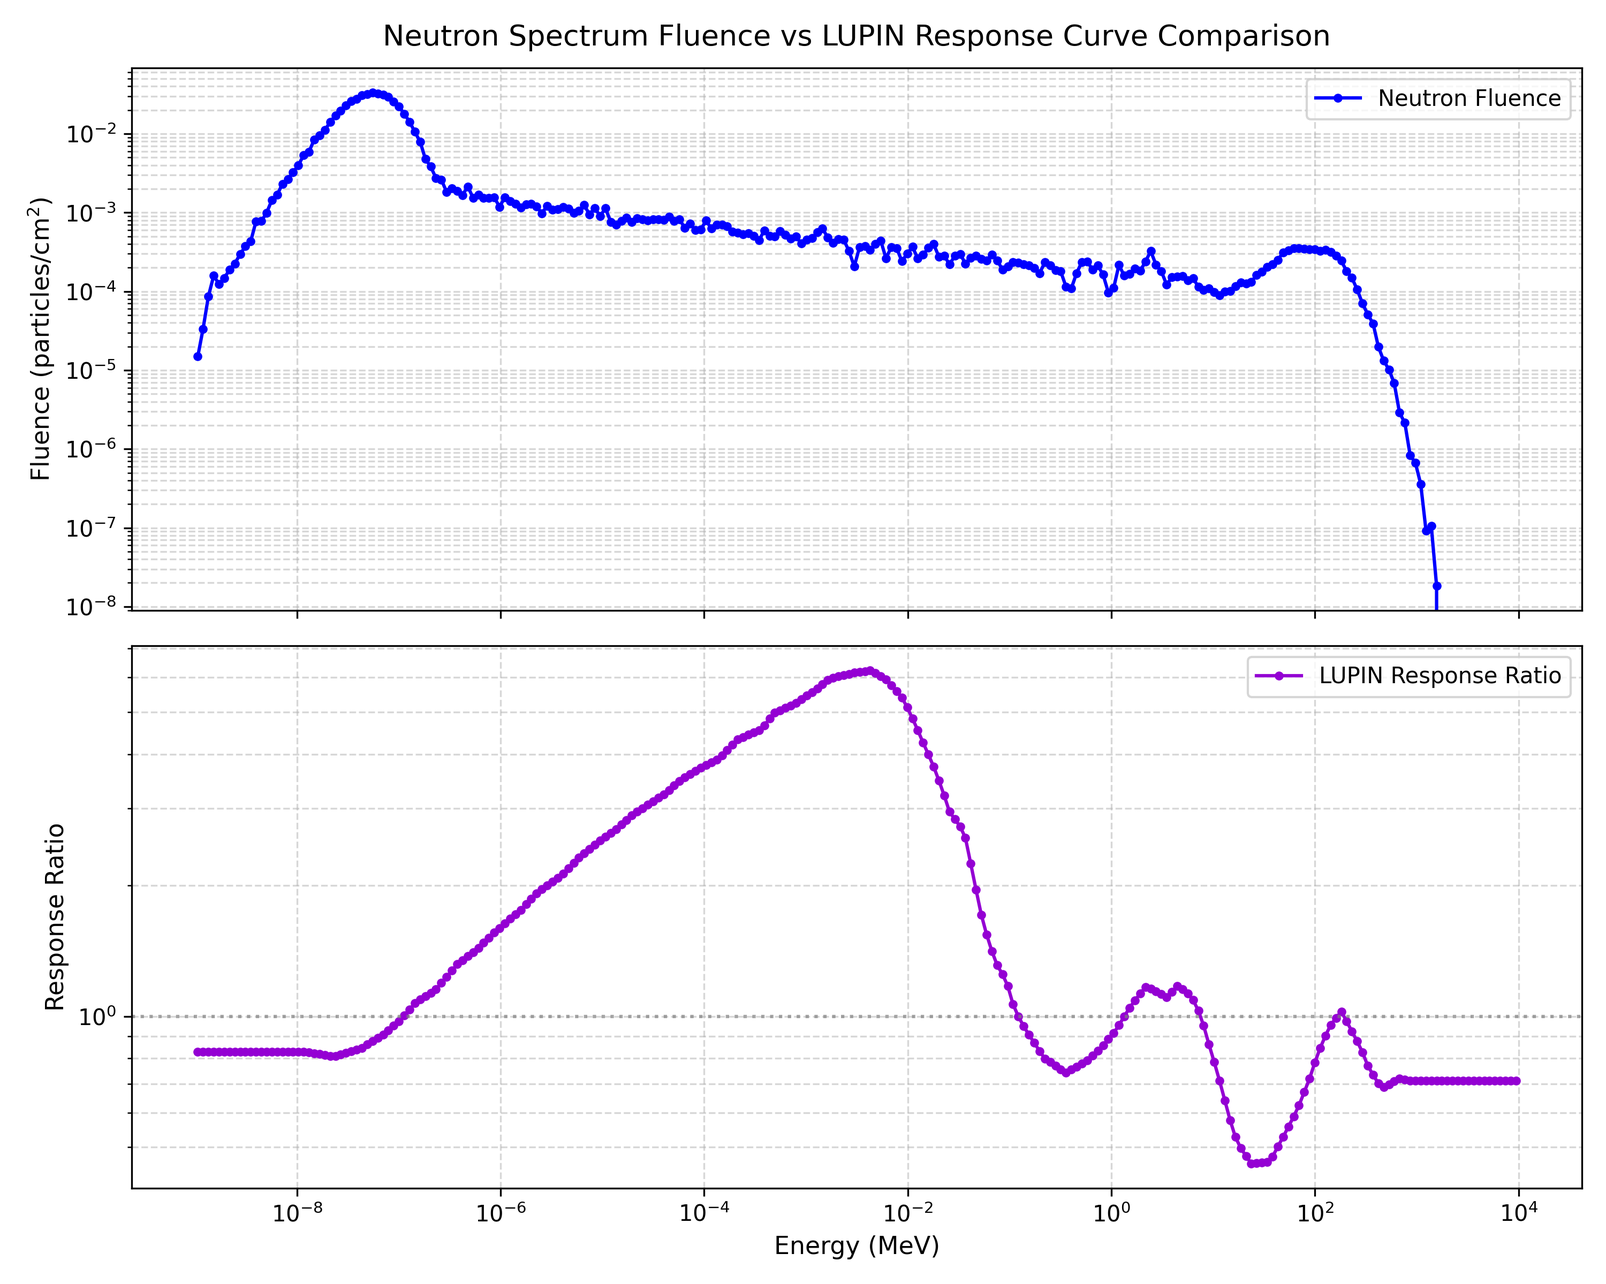
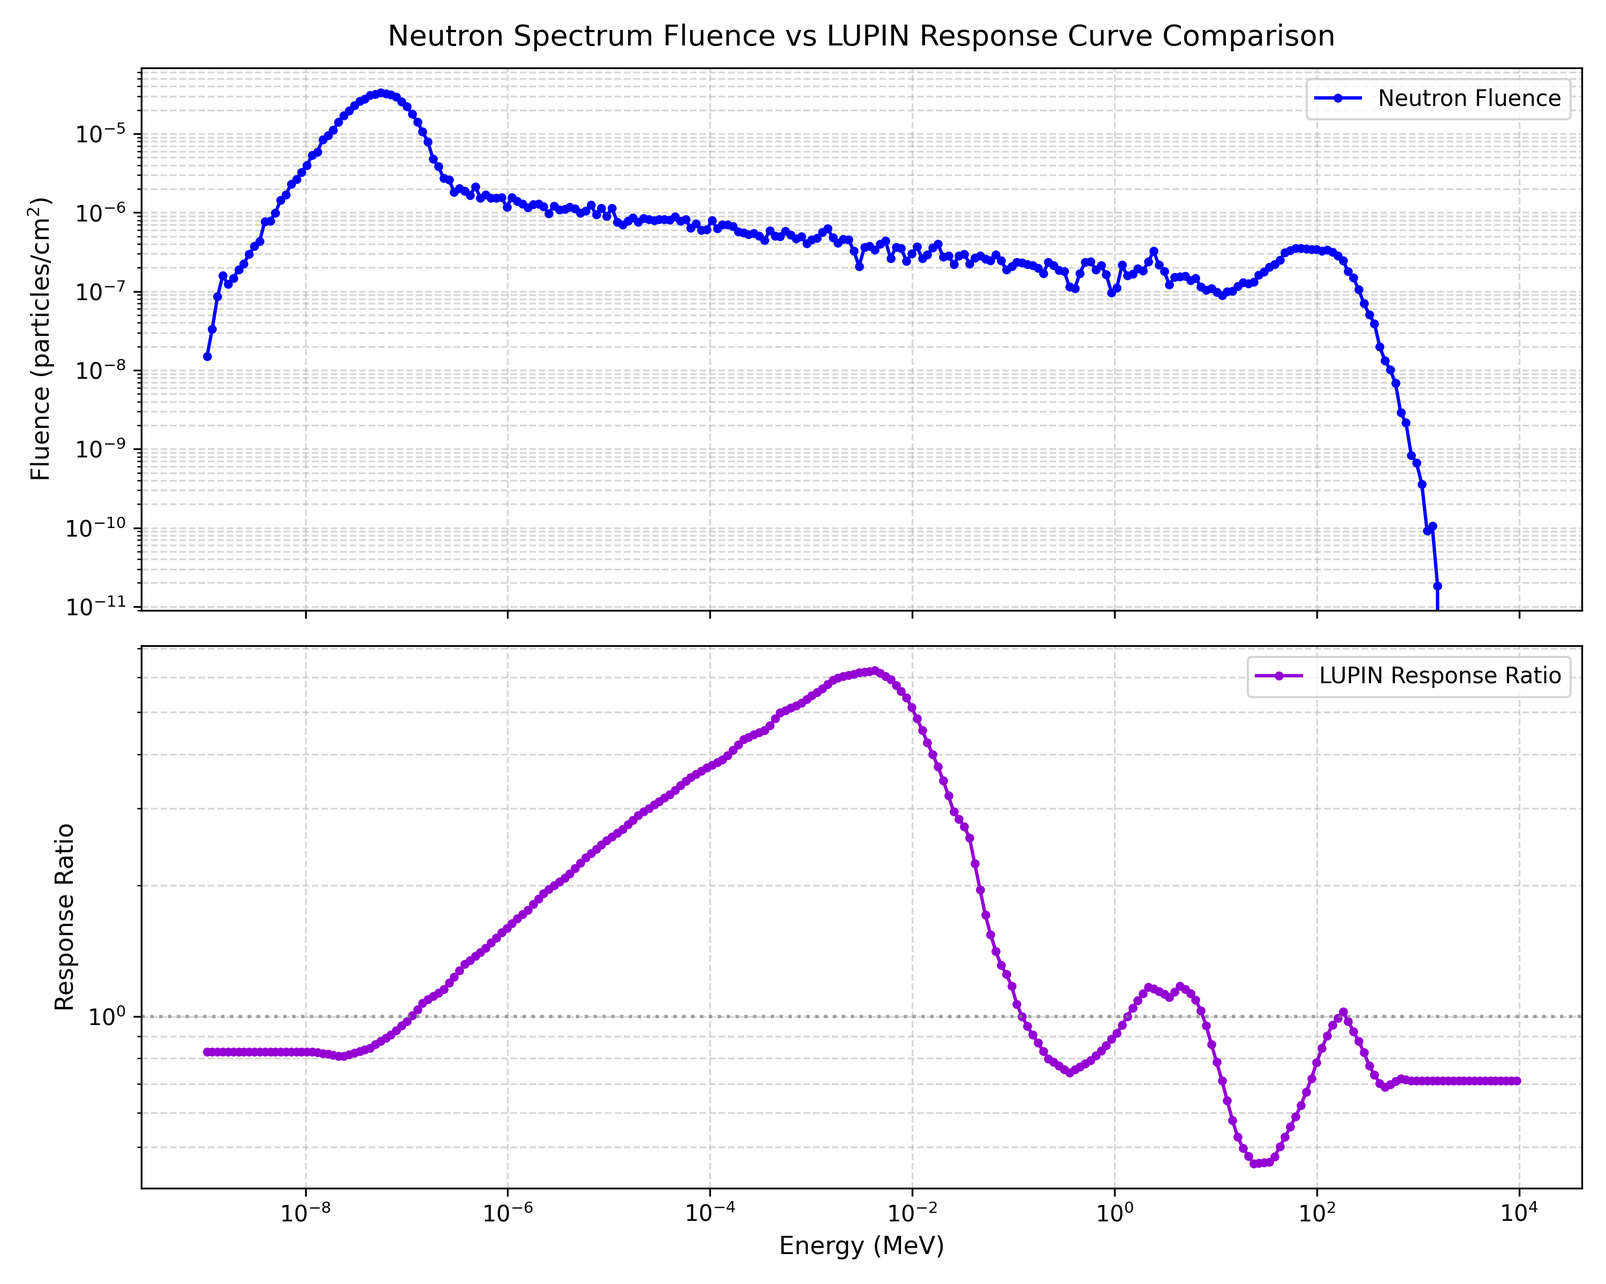
Fix dN/dE bug with energy convertion
Data for the differential fluence from FLUKA are expressed in GeV but I
multiplied them for the bin width in MeV. This commit fixes the bug for
all the correction evaluation codes.

diff --git a/SwissFEL25/WENDI2_responsefolding/neutronresponse/WENDI2-NeutronFolding.py b/SwissFEL25/WENDI2_responsefolding/neutronresponse/WENDI2-NeutronFolding.py
@@ -12,7 +12,7 @@ neutron_flux_bin_min = [x*1000 for x in neutron_flux_bin_min] # convert GeV to M
 neutron_flux_bin_max = [1.1271975E-12, 1.2705742E-12, 1.4321880E-12, 1.6143588E-12, 1.8197013E-12, 2.0511626E-12, 2.3120653E-12, 2.6061542E-12, 2.9376503E-12, 3.3113124E-12, 3.7325030E-12, 4.2072678E-12, 4.7424222E-12, 5.3456462E-12, 6.0255989E-12, 6.7920400E-12, 7.6559705E-12, 8.6297905E-12, 9.7274784E-12, 1.0964789E-11, 1.2359482E-11, 1.3931579E-11, 1.5703640E-11, 1.7701103E-11, 1.9952638E-11, 2.2490567E-11, 2.5351308E-11, 2.8575930E-11, 3.2210720E-11, 3.6307842E-11, 4.0926110E-11, 4.6131807E-11, 5.1999658E-11, 5.8613885E-11, 6.6069421E-11, 7.4473282E-11, 8.3946100E-11, 9.4623837E-11, 1.0665975E-10, 1.2022661E-10, 1.3551912E-10, 1.5275682E-10, 1.7218710E-10, 1.9408886E-10, 2.1877648E-10, 2.4660432E-10, 2.7797176E-10, 3.1332906E-10, 3.5318373E-10, 3.9810782E-10, 4.4874612E-10, 5.0582555E-10, 5.7016530E-10, 6.4268890E-10, 7.2443723E-10, 8.1658386E-10, 9.2045122E-10, 1.0375304E-09, 1.1695016E-09, 1.3182593E-09, 1.4859387E-09, 1.6749463E-09, 1.8879953E-09, 2.1281434E-09, 2.3988380E-09, 2.7039644E-09, 3.0479019E-09, 3.4355871E-09, 3.8725854E-09, 4.3651691E-09, 4.9204072E-09, 5.5462706E-09, 6.2517418E-09, 7.0469484E-09, 7.9433020E-09, 8.9536698E-09, 1.0092554E-08, 1.1376303E-08, 1.2823340E-08, 1.4454436E-08, 1.6293004E-08, 1.8365434E-08, 2.0701469E-08, 2.3334646E-08, 2.6302754E-08, 2.9648398E-08, 3.3419603E-08, 3.7670489E-08, 4.2462077E-08, 4.7863153E-08, 5.3951222E-08, 6.0813683E-08, 6.8549042E-08, 7.7268297E-08, 8.7096630E-08, 9.8175100E-08, 1.1066273E-07, 1.2473876E-07, 1.4060521E-07, 1.5848983E-07, 1.7864934E-07, 2.0137311E-07, 2.2698727E-07, 2.5585948E-07, 2.8840412E-07, 3.2508845E-07, 3.6643888E-07, 4.1304892E-07, 4.6558779E-07, 5.2480937E-07, 5.9156383E-07, 6.6680923E-07, 7.5162569E-07, 8.4723058E-07, 9.5499615E-07, 1.0764694E-06, 1.2133936E-06, 1.3677343E-06, 1.5417065E-06, 1.7378076E-06, 1.9588524E-06, 2.2080135E-06, 2.4888673E-06, 2.8054451E-06, 3.1622910E-06, 3.5645262E-06, 4.0179252E-06, 4.5289949E-06, 5.1050720E-06, 5.7544244E-06, 6.4863725E-06, 7.3114229E-06, 8.2414172E-06, 9.2897062E-06, 1.0471332E-05, 1.1803259E-05, 1.3304604E-05, 1.4996917E-05, 1.6904489E-05, 1.9054694E-05, 2.1478407E-05, 2.4210405E-05, 2.7289909E-05, 3.0761115E-05, 3.4673852E-05, 3.9084276E-05, 4.4055701E-05, 4.9659477E-05, 5.5976037E-05, 6.3096049E-05, 7.1121707E-05, 8.0168211E-05, 9.0365400E-05, 1.0185967E-04, 1.1481595E-04, 1.2942024E-04, 1.4588219E-04, 1.6443802E-04, 1.8535415E-04, 2.0893072E-04, 2.3550619E-04, 2.6546197E-04, 2.9922806E-04, 3.3728912E-04, 3.8019146E-04, 4.2855091E-04, 4.8306148E-04, 5.4450566E-04, 6.1376544E-04, 6.9183490E-04, 7.7983458E-04, 8.7902747E-04, 9.9083758E-04, 1.1168697E-03, 1.2589328E-03, 1.4190659E-03, 1.5995674E-03, 1.8030284E-03, 2.0323689E-03, 2.2908812E-03, 2.5822758E-03, 2.9107349E-03, 3.2809728E-03, 3.6983043E-03, 4.1687191E-03, 4.6989699E-03, 5.2966666E-03, 5.9703896E-03, 6.7298091E-03, 7.5858231E-03, 8.5507212E-03, 9.6383514E-03, 1.0864326E-02, 1.2246241E-02, 1.3803933E-02, 1.5559757E-02, 1.7538920E-02, 1.9769827E-02, 2.2284498E-02, 2.5119031E-02, 2.8314108E-02, 3.1915594E-02, 3.5975177E-02, 4.0551126E-02, 4.5709126E-02, 5.1523220E-02, 5.8076844E-02, 6.5464064E-02, 7.3790938E-02, 8.3176956E-02, 9.3756847E-02, 0.1056825, 0.1191250, 0.1342774, 0.1513572, 0.1706095, 0.1923105, 0.2167720, 0.2443448, 0.2754248, 0.3104582, 0.3499477, 0.3944602, 0.4446345, 0.5011910, 0.5649412, 0.6368003, 0.7177996, 0.8091020, 0.9120178, 1.028024, 1.158786, 1.306181, 1.472324, 1.659600, 1.870697, 2.108645, 2.376859, 2.679189, 3.019976, 3.404109, 3.837103, 4.325173, 4.875324, 5.495454, 6.194462, 6.982381, 7.870522, 8.871633, 10.00008]
 neutron_flux_bin_max = [x*1000 for x in neutron_flux_bin_max] # convert GeV to MeV
 
-# This is the differential fluence of the neutrons (dN/dE) (Neutrons/MeVcm2) simulated with FLUKA in 2025
+# This is the differential fluence of the neutrons (dN/dE) (Neutrons/GeVcm2) simulated with FLUKA in 2025
 neutron_fluence_differential = [257441.1, 283464.5, 119988.8, 576473.2, 196380.1, 339733.3, 677608.9, 636745.8, 431372.0, 725778.5, 796823.7, 971698.1, 1144935., 1510168., 1587017., 2000684., 1646242., 1758530., 2217067., 2427907., 2509081., 2663888., 3187773., 3522366., 3915851., 3884326., 4111081., 4379386., 4422306., 4475590., 4473106., 4280388., 4000730., 3650752., 3175299., 2643124., 2136643., 1740802., 1286592., 938048.9, 567868.2, 384582.4, 240247.3, 139243.4, 98878.06, 51426.49, 31561.51, 20934.41, 17384.44, 12505.40, 11315.13, 11407.50, 11303.16, 9860.485, 7513.986, 6732.945, 5987.369, 4923.546, 5571.510, 3368.001, 2628.181, 3105.958, 3326.066, 2514.458, 2015.692, 1863.885, 1523.825, 1839.298, 1267.291, 836.0508, 1019.351, 820.3976, 732.7415, 646.1347, 593.5504, 438.0917, 518.4284, 385.8990, 269.9217, 284.1479, 289.4415, 231.5765, 245.1959, 162.3932, 143.4353, 135.3934, 121.6911, 115.4552, 70.71508, 75.30845, 67.37531, 74.66490, 69.40839, 38.70984, 37.59397, 40.05275, 36.71345, 28.54985, 19.70844, 21.52743, 19.95745, 17.28657, 17.94884, 15.02095, 15.47954, 8.132508, 8.765331, 8.018218, 8.206712, 5.382307, 4.791873, 5.204505, 4.814923, 3.595470, 4.028876, 3.693014, 3.731691, 2.489256, 2.668991, 1.932511, 1.957079, 1.494171, 1.348751, 1.338707, 0.9125900, 1.063494, 0.9211050, 0.7348630, 0.7605793, 0.5072417, 0.5435232, 0.5594368, 0.4309097, 0.3656132, 0.3011673, 0.2737519, 0.2626331, 0.2453497, 0.1974537, 0.2156077, 0.1644257, 0.1989160, 0.2019996, 9.2423871E-02, 0.1314488, 9.4106168E-02, 0.1086253, 8.7195858E-02, 8.7628901E-02, 9.8621875E-02, 7.8335986E-02, 5.5818714E-02, 4.9635205E-02, 4.6083380E-02, 5.6160398E-02, 5.0352409E-02, 4.7821388E-02, 4.5129653E-02, 3.9930511E-02, 3.0939113E-02, 3.6909305E-02, 3.3100907E-02, 3.3176709E-02, 3.4289464E-02, 3.0670675E-02, 1.8646779E-02, 1.7606765E-02, 2.3456389E-02, 2.3514044E-02, 1.8386025E-02, 1.9189307E-02, 1.6932106E-02, 1.0463245E-02, 1.0179237E-02, 8.4376968E-03, 6.5458086E-03, 5.7246075E-03, 4.5863995E-03, 3.6422554E-03, 3.5197935E-03, 3.3297974E-03, 2.3942853E-03, 1.5635507E-03, 9.7079924E-04, 8.9010940E-04, 6.6569954E-04, 5.3365791E-04, 4.4401825E-04, 4.5168030E-04, 2.6840030E-04, 2.0608885E-04, 1.5773707E-04, 1.2821931E-04, 1.1463290E-04, 1.0167091E-04, 8.2477207E-05, 9.6304022E-05, 7.2679344E-05, 7.9365789E-05, 7.1202208E-05, 7.3364419E-05, 6.6645072E-05, 6.7403933E-05, 6.6712448E-05, 6.9035341E-05, 7.0311653E-05, 6.7523652E-05, 6.5300708E-05, 5.9146256E-05, 4.7710659E-05, 4.1036394E-05, 3.4785320E-05, 2.7192322E-05, 2.1091395E-05, 1.4831823E-05, 9.3695271E-06, 6.1699766E-06, 3.2672858E-06, 1.9194533E-06, 7.0922079E-07, 2.8315185E-07, 5.1303598E-08, 2.9197555E-08, 3.8648871E-09, 0.000000, 0.000000, 0.000000, 0.000000, 0.000000, 0.000000, 0.000000, 0.000000, 0.000000, 0.000000, 0.000000, 0.000000, 0.000000, 0.000000, 0.000000, 0.000000, 0.000000, 0.000000, 0.000000, 0.000000, 0.000000, 0.000000, 0.000000, 0.000000, 0.000000, 0.000000]
 
 print("Entries for neutron flux lower energggy bin side :", len(neutron_flux_bin_min))
@@ -26,7 +26,7 @@ import numpy as np
 
 E_min = np.array(neutron_flux_bin_min) # convert to numpy array
 E_max = np.array(neutron_flux_bin_max)
-dN_dE = np.array(neutron_fluence_differential)
+dN_dE = np.array(neutron_fluence_differential) / 1000.0 # convert GeV to MeV
 
 dE = E_max - E_min # the width of each energy bin
 

diff --git a/SwissFEL25/LUPIN_responsefolding/LUPIN-Folding.py b/SwissFEL25/LUPIN_responsefolding/LUPIN-Folding.py
@@ -10,7 +10,7 @@ neutron_flux_bin_min = [x*1000 for x in neutron_flux_bin_min] # convert GeV to M
 neutron_flux_bin_max = [1.1271975E-12,1.2705742E-12,1.4321880E-12,1.6143588E-12,1.8197013E-12,2.0511626E-12,2.3120653E-12,2.6061542E-12,2.9376503E-12,3.3113124E-12,3.7325030E-12,4.2072678E-12,4.7424222E-12,5.3456462E-12,6.0255989E-12,6.7920400E-12,7.6559705E-12,8.6297905E-12,9.7274784E-12,1.0964789E-11,1.2359482E-11,1.3931579E-11,1.5703640E-11,1.7701103E-11,1.9952638E-11,2.2490567E-11,2.5351308E-11,2.8575930E-11,3.2210720E-11,3.6307842E-11,4.0926110E-11,4.6131807E-11,5.1999658E-11,5.8613885E-11,6.6069421E-11,7.4473282E-11,8.3946100E-11,9.4623837E-11,1.0665975E-10,1.2022661E-10,1.3551912E-10,1.5275682E-10,1.7218710E-10,1.9408886E-10,2.1877648E-10,2.4660432E-10,2.7797176E-10,3.1332906E-10,3.5318373E-10,3.9810782E-10,4.4874612E-10,5.0582555E-10,5.7016530E-10,6.4268890E-10,7.2443723E-10,8.1658386E-10,9.2045122E-10,1.0375304E-09,1.1695016E-09,1.3182593E-09,1.4859387E-09,1.6749463E-09,1.8879953E-09,2.1281434E-09,2.3988380E-09,2.7039644E-09,3.0479019E-09,3.4355871E-09,3.8725854E-09,4.3651691E-09,4.9204072E-09,5.5462706E-09,6.2517418E-09,7.0469484E-09,7.9433020E-09,8.9536698E-09,1.0092554E-08,1.1376303E-08,1.2823340E-08,1.4454436E-08,1.6293004E-08,1.8365434E-08,2.0701469E-08,2.3334646E-08,2.6302754E-08,2.9648398E-08,3.3419603E-08,3.7670489E-08,4.2462077E-08,4.7863153E-08,5.3951222E-08,6.0813683E-08,6.8549042E-08,7.7268297E-08,8.7096630E-08,9.8175100E-08,1.1066273E-07,1.2473876E-07,1.4060521E-07,1.5848983E-07,1.7864934E-07,2.0137311E-07,2.2698727E-07,2.5585948E-07,2.8840412E-07,3.2508845E-07,3.6643888E-07,4.1304892E-07,4.6558779E-07,5.2480937E-07,5.9156383E-07,6.6680923E-07,7.5162569E-07,8.4723058E-07,9.5499615E-07,1.0764694E-06,1.2133936E-06,1.3677343E-06,1.5417065E-06,1.7378076E-06,1.9588524E-06,2.2080135E-06,2.4888673E-06,2.8054451E-06,3.1622910E-06,3.5645262E-06,4.0179252E-06,4.5289949E-06,5.1050720E-06,5.7544244E-06,6.4863725E-06,7.3114229E-06,8.2414172E-06,9.2897062E-06,1.0471332E-05,1.1803259E-05,1.3304604E-05,1.4996917E-05,1.6904489E-05,1.9054694E-05,2.1478407E-05,2.4210405E-05,2.7289909E-05,3.0761115E-05,3.4673852E-05,3.9084276E-05,4.4055701E-05,4.9659477E-05,5.5976037E-05,6.3096049E-05,7.1121707E-05,8.0168211E-05,9.0365400E-05,1.0185967E-04,1.1481595E-04,1.2942024E-04,1.4588219E-04,1.6443802E-04,1.8535415E-04,2.0893072E-04,2.3550619E-04,2.6546197E-04,2.9922806E-04,3.3728912E-04,3.8019146E-04,4.2855091E-04,4.8306148E-04,5.4450566E-04,6.1376544E-04,6.9183490E-04,7.7983458E-04,8.7902747E-04,9.9083758E-04,1.1168697E-03,1.2589328E-03,1.4190659E-03,1.5995674E-03,1.8030284E-03,2.0323689E-03,2.2908812E-03,2.5822758E-03,2.9107349E-03,3.2809728E-03,3.6983043E-03,4.1687191E-03,4.6989699E-03,5.2966666E-03,5.9703896E-03,6.7298091E-03,7.5858231E-03,8.5507212E-03,9.6383514E-03,1.0864326E-02,1.2246241E-02,1.3803933E-02,1.5559757E-02,1.7538920E-02,1.9769827E-02,2.2284498E-02,2.5119031E-02,2.8314108E-02,3.1915594E-02,3.5975177E-02,4.0551126E-02,4.5709126E-02,5.1523220E-02,5.8076844E-02,6.5464064E-02,7.3790938E-02,8.3176956E-02,9.3756847E-02,0.1056825,0.1191250,0.1342774,0.1513572,0.1706095,0.1923105,0.2167720,0.2443448,0.2754248,0.3104582,0.3499477,0.3944602,0.4446345,0.5011910,0.5649412,0.6368003,0.7177996,0.8091020,0.9120178,1.028024,1.158786,1.306181,1.472324,1.659600,1.870697,2.108645,2.376859,2.679189,3.019976,3.404109,3.837103,4.325173,4.875324,5.495454,6.194462,6.982381,7.870522,8.871633,10.00008]
 neutron_flux_bin_max = [x*1000 for x in neutron_flux_bin_max] # convert GeV to MeV
 
-# This is the differential fluence of the neutrons (dN/dE) (Neutrons/MeVcm2) simulated with FLUKA in 2025, at position 5
+# This is the differential fluence of the neutrons (dN/dE) (Neutrons/GeVcm2) simulated with FLUKA in 2025, at position 5
 neutron_fluence_differential = [117246.2,233992.5,534151.0,866435.8,603607.4,636633.0,723700.0,767987.1,895420.3,999605.8,1025595.,1632460.,1454233.,1650087.,2122105.,2203680.,2676643.,2726362.,2972709.,3216134.,3856352.,3762621.,4761256.,4807833.,4940444.,5562848.,5963586.,6105506.,6275949.,6350830.,5997725.,5941313.,5384315.,5025278.,4368488.,3709784.,3131228.,2413154.,1833544.,1325806.,926296.3,615196.2,407450.5,217857.1,155178.8,98021.43,83679.08,51679.01,51006.27,41530.21,32918.08,37520.00,23968.84,23251.12,18903.23,16662.23,14919.78,10121.87,11802.58,9424.813,7682.492,6118.555,5988.596,5378.093,4403.139,3213.270,3549.892,2826.415,2519.545,2394.752,2014.207,1576.666,1495.322,1566.933,1050.101,1132.869,791.5505,886.7409,527.4958,431.6891,427.1064,417.7705,326.3943,322.9293,275.8129,237.2537,217.5544,192.2110,167.9964,163.8302,127.7357,119.6830,82.11761,82.72034,61.01040,54.68556,63.35694,44.63813,44.28531,38.96105,33.37617,25.17617,21.69421,18.36428,16.79788,13.76502,10.72184,12.68534,9.619267,8.443299,8.690833,6.968849,5.545775,5.173352,3.741765,3.705240,3.460905,3.634304,3.593102,2.468671,1.857929,1.834653,1.610913,1.031667,0.5825723,0.9025270,0.8222470,0.6620001,0.6893918,0.6788666,0.3592639,0.4414320,0.3817325,0.2306036,0.2545180,0.2759129,0.1737765,0.1721908,0.1865699,0.1846059,0.1135198,0.1036822,7.1213663E-02,8.1867680E-02,7.6343767E-02,5.1079903E-02,5.3637858E-02,5.0663520E-02,4.1053507E-02,3.4540571E-02,3.6716688E-02,2.7149525E-02,1.8635528E-02,1.7936349E-02,1.8129811E-02,1.5753603E-02,1.3491048E-02,1.1520599E-02,9.4447834E-03,7.1753166E-03,8.8050570E-03,7.0950021E-03,5.4679015E-03,4.7118026E-03,2.6721535E-03,2.2567345E-03,3.1256853E-03,3.8535905E-03,3.4560761E-03,2.4349410E-03,2.4248997E-03,1.6445641E-03,8.6716883E-04,8.7608671E-04,1.5213244E-03,9.8799856E-04,9.2968624E-04,9.5190608E-04,7.9225504E-04,9.2056225E-04,1.1145205E-03,6.6296471E-04,4.8704544E-04,2.9227309E-04,3.2028562E-04,2.9280386E-04,2.6337302E-04,2.0406746E-04,1.9437737E-04,1.3303374E-04,1.0736549E-04,1.0108003E-04,8.0492006E-05,6.4176602E-05,6.3598534E-05,5.7583293E-05,5.8338363E-05,5.8042711E-05,5.0058185E-05,4.6317462E-05,5.0774022E-05,4.9038223E-05,5.0460607E-05,4.8514263E-05,4.8638103E-05,5.3446598E-05,5.0306549E-05,4.7739919E-05,4.2394768E-05,3.7047117E-05,3.2238917E-05,2.8675748E-05,2.4428526E-05,2.2240047E-05,1.8539540E-05,1.4749735E-05,1.1264682E-05,7.3882052E-06,5.3803233E-06,3.3964413E-06,2.0080213E-06,1.2923995E-06,8.8022892E-07,3.9606729E-07,2.3422587E-07,1.5961994E-07,9.4918988E-08,3.5668730E-08,2.3481862E-08,8.1235241E-09,5.7362026E-09,2.7485951E-09,6.2520877E-10,6.3198918E-10,9.8037342E-11,0.000000,0.000000,0.000000,0.000000,0.000000,0.000000,0.000000,0.000000,0.000000,0.000000,0.000000,0.000000,0.000000,0.000000,0.000000]
 
 print("Entries for neutron flux lower energggy bin side :", len(neutron_flux_bin_min))
@@ -24,7 +24,7 @@ import numpy as np
 
 E_min = np.array(neutron_flux_bin_min) # convert to numpy array
 E_max = np.array(neutron_flux_bin_max)
-dN_dE = np.array(neutron_fluence_differential)
+dN_dE = np.array(neutron_fluence_differential) / 1000.0 # convert GeV to MeV
 
 dE = E_max - E_min # the width of each energy bin
 

diff --git a/SwissFEL25/NAUSICAA_responsefolding/NAUSICAA_folding.py b/SwissFEL25/NAUSICAA_responsefolding/NAUSICAA_folding.py
@@ -9,7 +9,7 @@ photon_flux_bin_min = [x*1000 for x in photon_flux_bin_min] # convert GeV to MeV
 photon_flux_bin_max = [1.0964782E-09,1.2022645E-09,1.3182568E-09,1.4454400E-09,1.5848935E-09,1.7378012E-09,1.9054613E-09,2.0892970E-09,2.2908686E-09,2.5118878E-09,2.7542302E-09,3.0199536E-09,3.3113132E-09,3.6307830E-09,3.9810746E-09,4.3651625E-09,4.7863051E-09,5.2480797E-09,5.7544050E-09,6.3095800E-09,6.9183175E-09,7.5857844E-09,8.3176479E-09,9.1201207E-09,1.0000014E-08,1.0964798E-08,1.2022662E-08,1.3182588E-08,1.4454421E-08,1.5848958E-08,1.7378039E-08,1.9054641E-08,2.0892999E-08,2.2908720E-08,2.5118911E-08,2.7542342E-08,3.0199580E-08,3.3113182E-08,3.6307885E-08,3.9810804E-08,4.3651681E-08,4.7863118E-08,5.2480868E-08,5.7544135E-08,6.3095889E-08,6.9183272E-08,7.5857955E-08,8.3176602E-08,9.1201329E-08,1.0000028E-07,1.0964812E-07,1.2022679E-07,1.3182606E-07,1.4454442E-07,1.5848980E-07,1.7378063E-07,1.9054669E-07,2.0893029E-07,2.2908752E-07,2.5118950E-07,2.7542382E-07,3.0199621E-07,3.3113230E-07,3.6307938E-07,3.9810863E-07,4.3651744E-07,4.7863188E-07,5.2480942E-07,5.7544219E-07,6.3095985E-07,6.9183363E-07,7.5858065E-07,8.3176718E-07,9.1201463E-07,1.0000042E-06,1.0964828E-06,1.2022696E-06,1.3182624E-06,1.4454462E-06,1.5849004E-06,1.7378088E-06,1.9054694E-06,2.0893056E-06,2.2908785E-06,2.5118984E-06,2.7542419E-06,3.0199662E-06,3.3113279E-06,3.6307990E-06,3.9810920E-06,4.3651808E-06,4.7863259E-06,5.2481018E-06,5.7544294E-06,6.3096072E-06,6.9183475E-06,7.5858170E-06,8.3176838E-06,9.1201591E-06,1.0000056E-05,1.0964844E-05,1.2022713E-05,1.3182643E-05,1.4454482E-05,1.5849026E-05,1.7378110E-05,1.9054720E-05,2.0893089E-05,2.2908816E-05,2.5119019E-05,2.7542459E-05,3.0199708E-05,3.3113323E-05,3.6308040E-05,3.9810973E-05,4.3651868E-05,4.7863323E-05,5.2481097E-05,5.7544377E-05,6.3096166E-05,6.9183567E-05,7.5858276E-05,8.3176950E-05,9.1201720E-05,1.0000071E-04,1.0964860E-04,1.2022730E-04,1.3182664E-04,1.4454505E-04,1.5849050E-04,1.7378137E-04,1.9054749E-04,2.0893120E-04,2.2908850E-04,2.5119056E-04,2.7542500E-04,3.0199753E-04,3.3113372E-04,3.6308094E-04,3.9811034E-04,4.3651930E-04,4.7863391E-04,5.2481168E-04,5.7544466E-04,6.3096255E-04,6.9183676E-04,7.5858383E-04,8.3177071E-04,9.1201853E-04,1.0000085E-03,1.0964876E-03,1.2022748E-03,1.3182682E-03,1.4454524E-03,1.5849071E-03,1.7378164E-03,1.9054777E-03,2.0893149E-03,2.2908885E-03,2.5119095E-03,2.7542540E-03,3.0199795E-03,3.3113416E-03,3.6308144E-03,3.9811088E-03,4.3651992E-03,4.7863466E-03,5.2481247E-03,5.7544550E-03,6.3096345E-03,6.9183763E-03,7.5858496E-03,8.3177192E-03,9.1201989E-03,1.0000098E-02,1.0964892E-02,1.2022764E-02,1.3182701E-02,1.4454544E-02,1.5849093E-02,1.7378187E-02,1.9054806E-02,2.0893177E-02,2.2908917E-02,2.5119130E-02,2.7542580E-02,3.0199837E-02,3.3113468E-02,3.6308199E-02,3.9811146E-02,4.3652054E-02,4.7863536E-02,5.2481323E-02,5.7544626E-02,6.3096434E-02,6.9183864E-02,7.5858615E-02,8.3177313E-02,9.1202110E-02,0.1000011,0.1096491,0.1202278,0.1318272,0.1445457,0.1584912,0.1737821,0.1905483,0.2089321,0.2290895,0.2511916,0.2754261,0.3019988,0.3311351,0.3630825,0.3981120,0.4365212,0.4786360,0.5248140,0.5754471,0.6309653,0.6918396,0.7585871,0.8317743,0.9120225,1.000013,1.096492,1.202280,1.318274,1.445459,1.584914,1.737824,1.905486,2.089324,2.290898,2.511920,2.754266,3.019992,3.311356,3.630830,3.981126,4.365218,4.786367,5.248147,5.754479,6.309661,6.918406,7.585882,8.317756,9.120237,10.00014]
 photon_flux_bin_max = [x*1000 for x in photon_flux_bin_max] # convert GeV to MeV
 
-# This is the differential fluence of the photon (dN/dE) (Photons/MeVcm2) simulated with FLUKA in 2025, at position 4
+# This is the differential fluence of the photon (dN/dE) (Photons/GeVcm2) simulated with FLUKA in 2025, at position 4
 photon_fluence_differential = [0.000000,0.000000,0.000000,0.000000,0.000000,0.000000,0.000000,0.000000,0.000000,0.000000,0.000000,0.000000,0.000000,0.000000,0.000000,0.000000,0.000000,0.000000,0.000000,0.000000,0.000000,0.000000,0.000000,0.000000,0.000000,0.000000,0.000000,0.000000,0.000000,0.000000,0.000000,0.000000,0.000000,0.000000,0.000000,0.000000,0.000000,0.000000,0.000000,0.000000,0.000000,0.000000,0.000000,0.000000,0.000000,0.000000,0.000000,0.000000,0.000000,0.000000,0.000000,0.000000,0.000000,0.000000,0.000000,0.000000,0.000000,0.000000,0.000000,0.000000,0.000000,0.000000,0.000000,0.000000,0.000000,0.000000,0.000000,0.000000,0.000000,0.000000,0.000000,0.000000,0.000000,0.000000,0.000000,0.000000,0.000000,0.000000,0.000000,0.000000,0.000000,0.000000,0.000000,0.000000,0.000000,0.000000,0.000000,0.000000,0.000000,0.000000,0.000000,0.000000,0.000000,0.000000,0.000000,0.000000,0.000000,0.000000,0.000000,0.000000,0.000000,0.000000,0.000000,0.000000,0.000000,0.000000,0.000000,0.000000,0.000000,0.000000,0.000000,0.000000,0.000000,0.1883284,0.3716128,0.8976647,1.799975,3.299529,5.018163,7.495956,9.668137,11.16610,12.64426,13.28309,12.83341,12.70221,11.88073,11.02692,10.10399,8.917664,7.971950,7.206193,6.434286,5.781934,5.348719,4.762899,4.229770,3.856040,3.647629,3.268050,2.891626,2.826470,4.333780,1.742298,1.574363,1.428251,1.302040,1.307094,1.134997,0.9559726,0.8514190,0.8148428,0.9046828,0.6957894,0.6287760,0.6708663,0.5429536,0.7485442,2.006321,0.3020775,0.3238368,0.2744371,0.2694189,0.7301329,0.2417044,0.2164314,0.1598161,0.5046489,0.1263389,0.1425179,0.1812102,9.0326257E-02,0.2274449,4.5358263E-02,1.6212652E-03,1.1986054E-03,1.4424808E-05,1.8272054E-06,2.4140493E-06,4.0123982E-06,3.2174893E-07,3.6244813E-07,1.4605443E-07,1.3205349E-07,1.2030080E-07,2.4611148E-07,5.7732997E-08,1.2192811E-07,2.1801219E-07,9.0455060E-08,8.3499714E-08,1.0970052E-07,4.0326551E-08,1.1914328E-07,2.2833403E-08,3.7643748E-08,3.7188485E-08,5.4477173E-08,3.2147899E-08,6.3326532E-08,2.6908317E-08,5.0689124E-09,1.9758023E-08,6.7522263E-09,7.9601223E-09,1.0459956E-08,4.9247011E-09,1.0853938E-08,2.6823501E-09,3.9961829E-09,0.000000,2.3011688E-10,1.4306879E-09,8.5427743E-10,2.9365121E-09,0.000000,0.000000,0.000000,0.000000,0.000000,0.000000,0.000000,0.000000,0.000000,0.000000,0.000000,0.000000,0.000000,0.000000,0.000000,0.000000,0.000000,0.000000,0.000000,0.000000,0.000000,0.000000,0.000000,0.000000,0.000000,0.000000,0.000000,0.000000,0.000000,0.000000,0.000000,0.000000,0.000000,0.000000,0.000000]
 
 print("Entries for photon flux lower energggy bin side :", len(photon_flux_bin_min))
@@ -23,7 +23,7 @@ import numpy as np
 
 E_min = np.array(photon_flux_bin_min) # convert to numpy array
 E_max = np.array(photon_flux_bin_max)
-dN_dE = np.array(photon_fluence_differential)
+dN_dE = np.array(photon_fluence_differential) / 1000 # Convert GeV to MeV
 
 dE = E_max - E_min # the width of each energy bin
 

diff --git a/SwissFEL25/WENDI2_responsefolding/photonresponse/WENDI2-PhotonFolding.py b/SwissFEL25/WENDI2_responsefolding/photonresponse/WENDI2-PhotonFolding.py
@@ -142,7 +142,7 @@ else: # Photons
 
 E_min = np.array(active_flux_bin_min) # convert to numpy array
 E_max = np.array(active_flux_bin_max)
-dN_dE = np.array(active_fluence_diff)
+dN_dE = np.array(active_fluence_diff) / 1000 # GeV to MeV
 
 dE = E_max - E_min # the width of each energy bin
 
